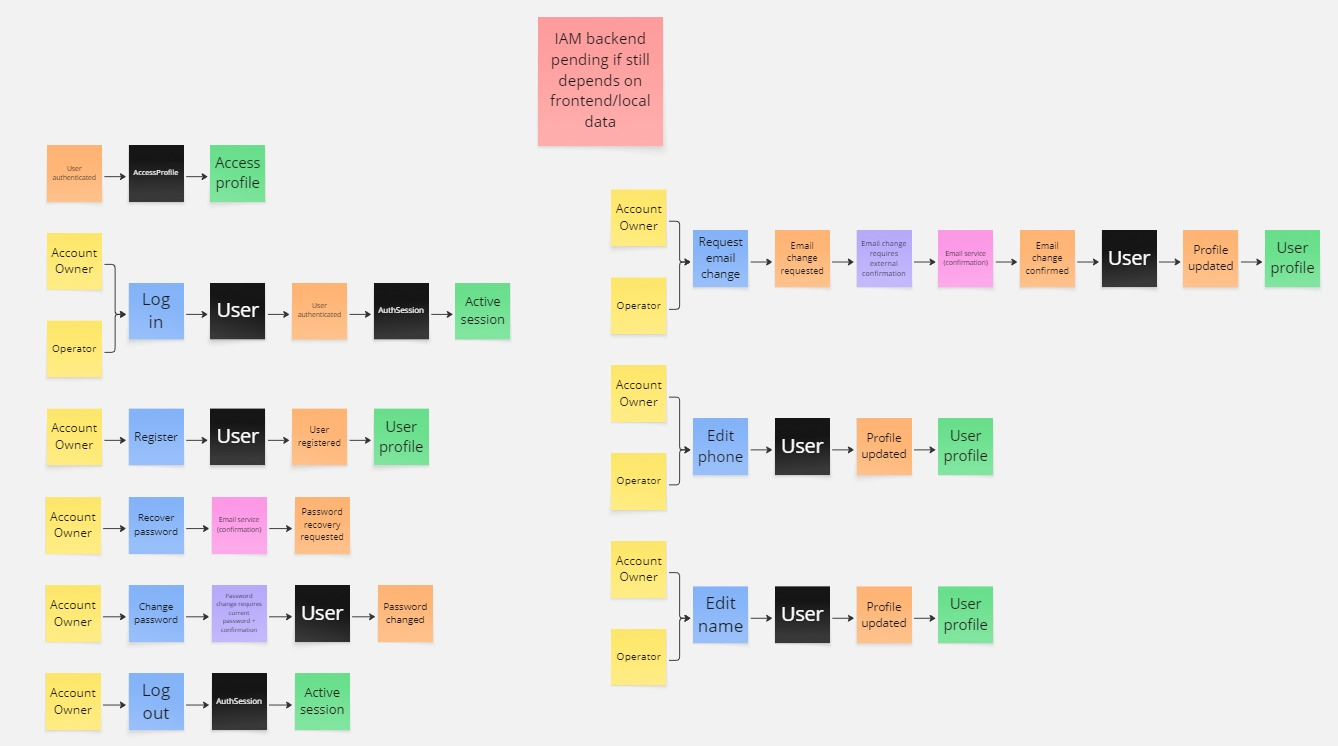
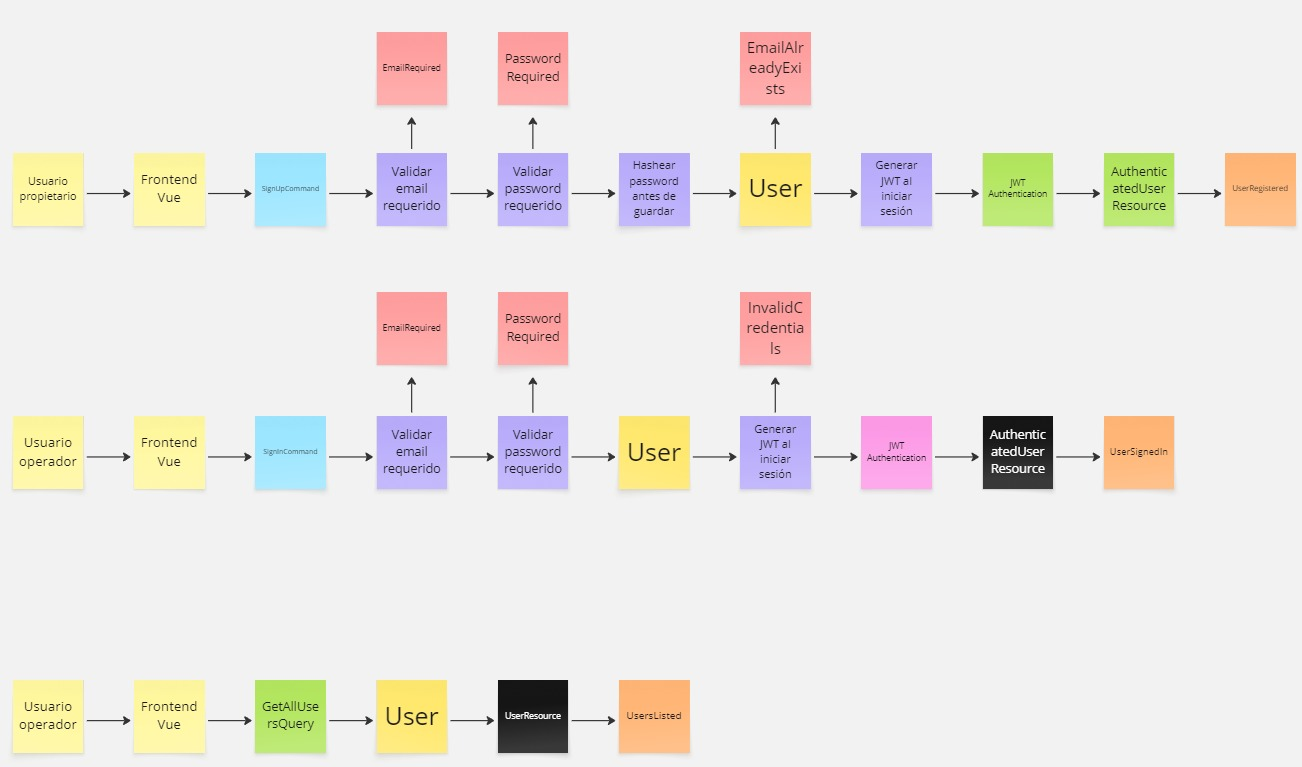
docs(report): update event storming images

diff --git a/README.md b/README.md
@@ -3570,7 +3570,7 @@ Link de presentación: https://1drv.ms/v/c/0e85bddd31a5a6b2/IQCF4TkZJDJxTLkw5gIh
 ### 4.6.1. Design-Level Event Storming
 Event Storming es una técnica de modelado que nos permite identificar y organizar los eventos relevantes del dominio de negocio, es decir, aquellos hechos importantes que ocurren dentro del sistema. A través de este modelo analizamos procesos de negocio mediante eventos, comandos, políticas, pain points, read models, aggregates y bounded contexts, lo que facilita comprender con mayor claridad la arquitectura del software.
 
-Las siguientes imágenes documentan el modelado por mapa general y por bounded context del producto.
+Las siguientes imágenes documentan el modelado por mapa general y por bounded context del producto. Cuando un bounded context requiere más detalle, se presenta en varias capturas consecutivas para conservar legibilidad.
 
 #### Mapa de bounded contexts
 
@@ -3582,31 +3582,49 @@ Las siguientes imágenes documentan el modelado por mapa general y por bounded c
 
 #### Workplace
 
-![Event Storming - Workplace](./assets/md-images-chapter4/event-storming-workplace.jpg)
+![Event Storming - Workplace 1](./assets/md-images-chapter4/event-storming-workplace-1.jpg)
+
+![Event Storming - Workplace 2](./assets/md-images-chapter4/event-storming-workplace-2.jpg)
 
 #### DeviceControl
 
-![Event Storming - DeviceControl](./assets/md-images-chapter4/event-storming-device-control.jpg)
+![Event Storming - DeviceControl 1](./assets/md-images-chapter4/event-storming-device-control-1.jpg)
+
+![Event Storming - DeviceControl 2](./assets/md-images-chapter4/event-storming-device-control-2.jpg)
 
 #### Monitoring
 
-![Event Storming - Monitoring](./assets/md-images-chapter4/event-storming-monitoring.jpg)
+![Event Storming - Monitoring 1](./assets/md-images-chapter4/event-storming-monitoring-1.jpg)
+
+![Event Storming - Monitoring 2](./assets/md-images-chapter4/event-storming-monitoring-2.jpg)
 
 #### Notification
 
-![Event Storming - Notification](./assets/md-images-chapter4/event-storming-notification.jpg)
+![Event Storming - Notification 1](./assets/md-images-chapter4/event-storming-notification-1.jpg)
+
+![Event Storming - Notification 2](./assets/md-images-chapter4/event-storming-notification-2.jpg)
+
+![Event Storming - Notification 3](./assets/md-images-chapter4/event-storming-notification-3.jpg)
+
+![Event Storming - Notification 4](./assets/md-images-chapter4/event-storming-notification-4.jpg)
+
+![Event Storming - Notification 5](./assets/md-images-chapter4/event-storming-notification-5.jpg)
 
 #### Plan
 
-![Event Storming - Plan](./assets/md-images-chapter4/event-storming-plan.jpg)
+![Event Storming - Plan 1](./assets/md-images-chapter4/event-storming-plan-1.jpg)
+
+![Event Storming - Plan 2](./assets/md-images-chapter4/event-storming-plan-2.jpg)
+
+![Event Storming - Plan 3](./assets/md-images-chapter4/event-storming-plan-3.jpg)
 
 #### Support
 
-![Event Storming - Support](./assets/md-images-chapter4/event-storming-support.jpg)
+![Event Storming - Support 1](./assets/md-images-chapter4/event-storming-support-1.jpg)
 
-#### Reports
+![Event Storming - Support 2](./assets/md-images-chapter4/event-storming-support-2.jpg)
 
-![Event Storming - Reports](./assets/md-images-chapter4/event-storming-report.jpg)
+![Event Storming - Support 3](./assets/md-images-chapter4/event-storming-support-3.jpg)
 
 #### Shared
 